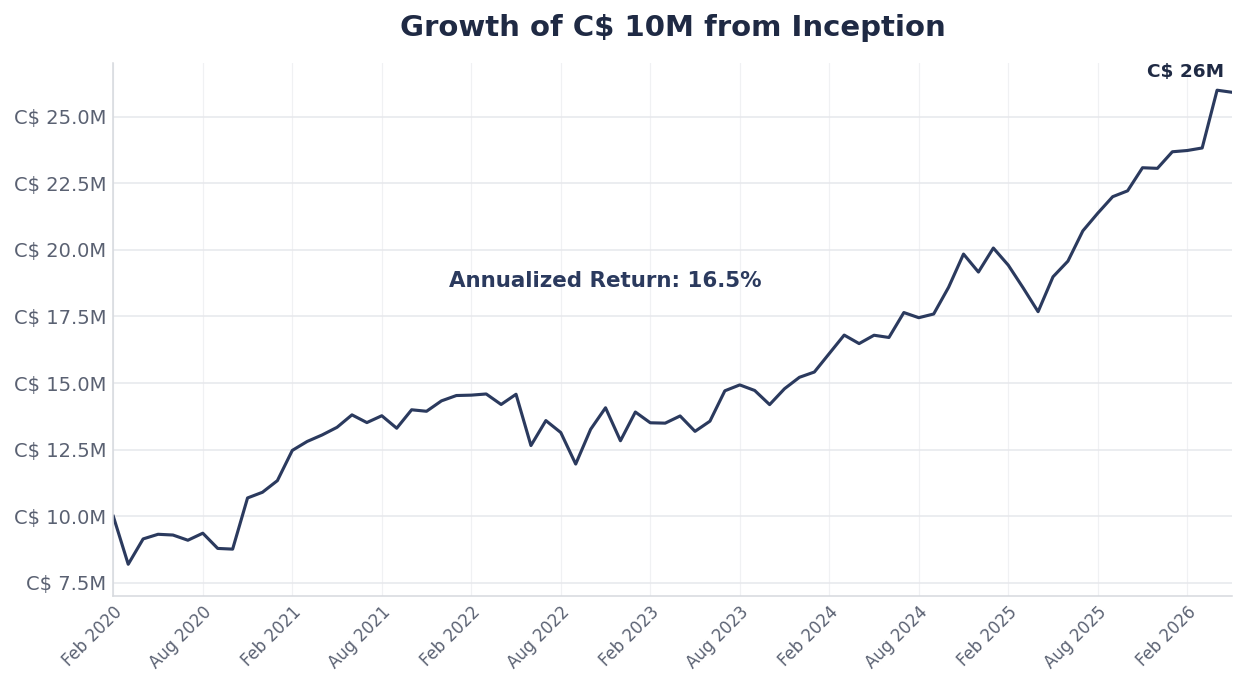
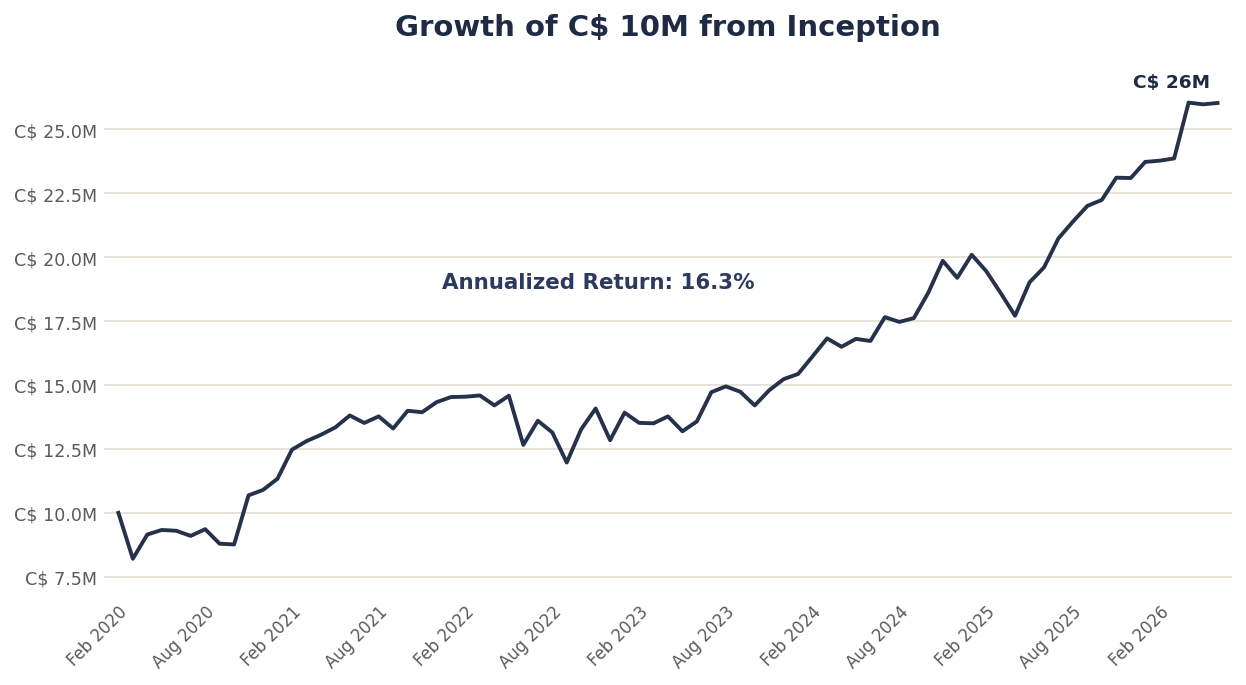
Update performance for June 2026 (annualized 16.3%, YTD 12.7%)

diff --git a/index.html b/index.html
@@ -655,7 +655,7 @@
           <div class="metric-label">Track Record</div>
         </div>
         <div class="metric-card">
-          <div class="metric-value">16.5%</div>
+          <div class="metric-value">16.3%</div>
           <div class="metric-label">Annualized Return</div>
         </div>
         <div class="metric-card">
@@ -794,14 +794,14 @@
               <td>0.4%</td>
               <td>9.1%</td>
               <td>-0.3%</td>
+              <td>0.2%</td>
               <td>&mdash;</td>
               <td>&mdash;</td>
               <td>&mdash;</td>
               <td>&mdash;</td>
               <td>&mdash;</td>
               <td>&mdash;</td>
-              <td>&mdash;</td>
-              <td>12.5%</td>
+              <td>12.7%</td>
             </tr>
           </tbody>
         </table>
@@ -825,7 +825,7 @@
         </div>
         <div class="detail-item">
           <span class="detail-label">Annualized Return</span>
-          <span class="detail-value">16.5%</span>
+          <span class="detail-value">16.3%</span>
         </div>
         <div class="detail-item">
           <span class="detail-label">Management Fee</span>